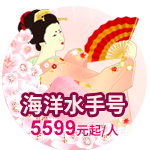
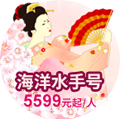
广告位点击图修改

diff --git a/采购商/国内首页-新.html b/采购商/国内首页-新.html
@@ -1159,7 +1159,7 @@ $(function(){
                     });
                 })
                 $('.adsCorner').click(function(){
-                    $('.adsCorner').stop().animate({'left':"-150px"},200,function(){
+                    $('.adsCorner').stop().animate({'left':"-120px"},200,function(){
                         $('.adsDetail').stop().animate({'left':"0"},450);
                     });
                 })

diff --git a/采购商/国际首页-新.html b/采购商/国际首页-新.html
@@ -1089,7 +1089,7 @@ $(function(){
                     });
                 })
                 $('.adsCorner').click(function(){
-                    $('.adsCorner').stop().animate({'left':"-150px"},200,function(){
+                    $('.adsCorner').stop().animate({'left':"-120px"},200,function(){
                         $('.adsDetail').stop().animate({'left':"0"},450);
                     });
                 })

diff --git a/static/css/store_v3/store.css b/static/css/store_v3/store.css
@@ -2855,8 +2855,8 @@ a.progressCancel {
 
 /* 双十一广告位 start*/
 .adsCorner{
-    width:150px;
-    height:150px;
+    width:120px;
+    height:120px;
     position:fixed;
     left:-150px;
     bottom:150px;

diff --git a/static/css/store.css b/static/css/store.css
@@ -2380,8 +2380,8 @@ iframe {
 
 /* 双十一广告位 start*/
 .adsCorner{
-    width:150px;
-    height:150px;
+    width:120px;
+    height:120px;
     position:fixed;
     left:-150px;
     bottom:150px;
